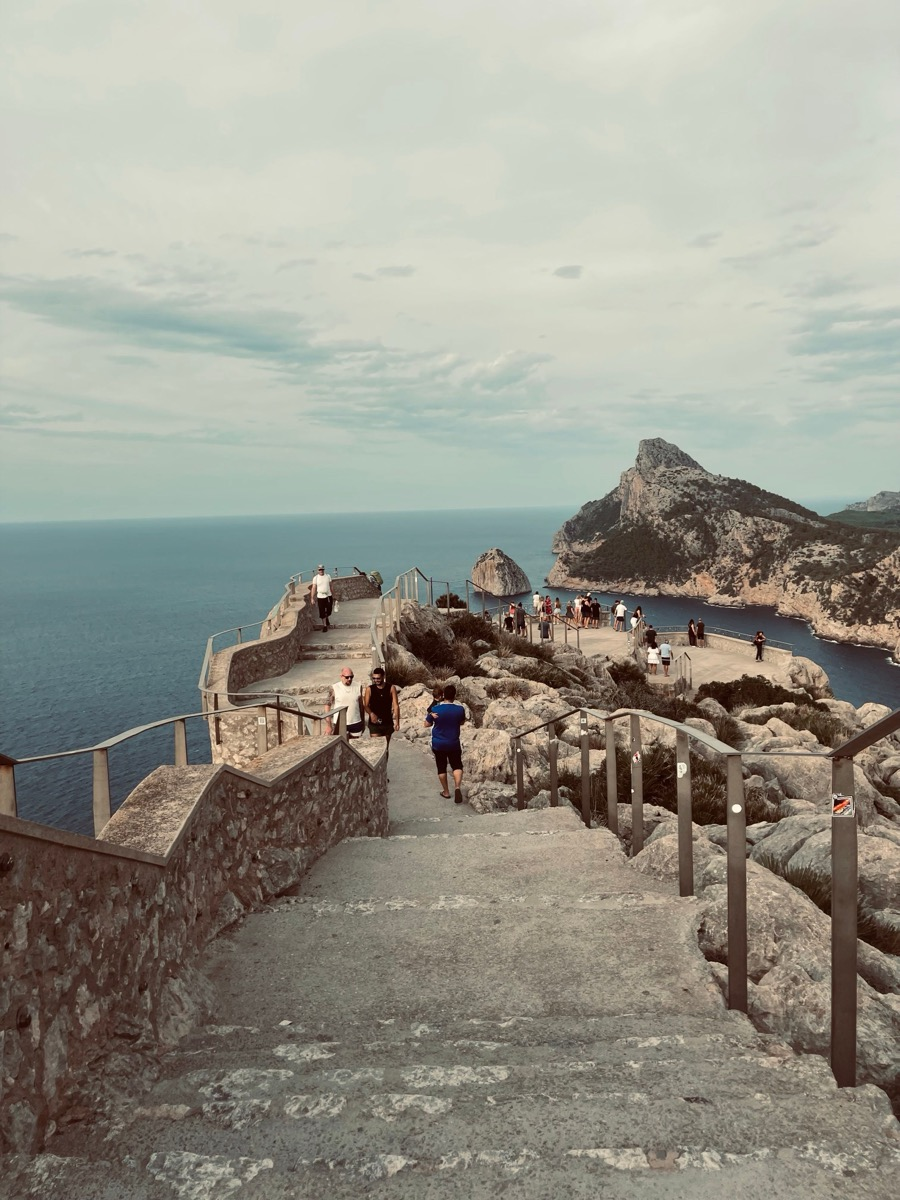
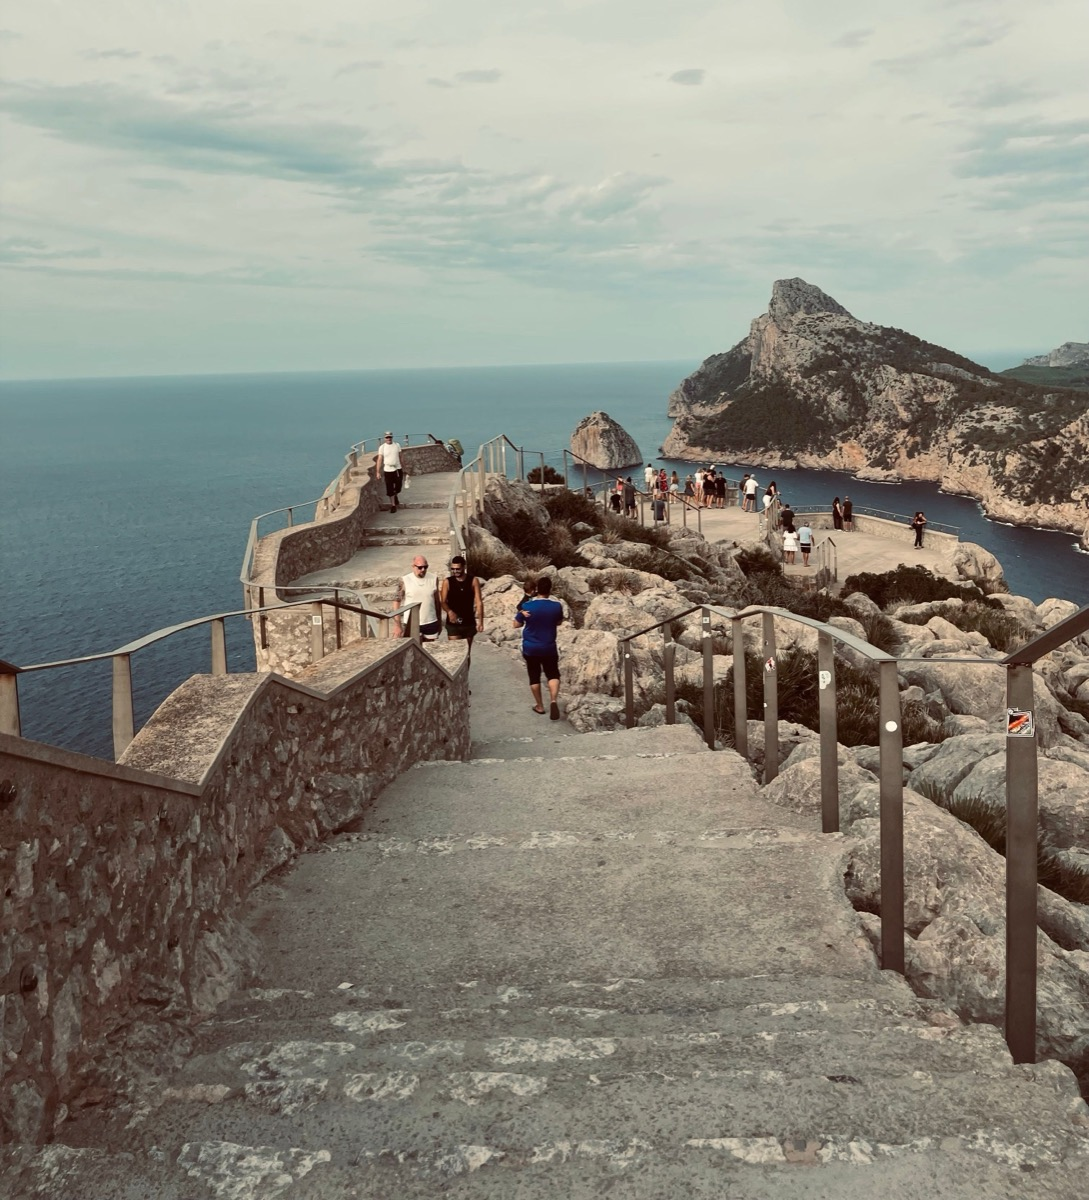
feat: replace copyright photos for 13 places + 2 itineraries with free sources (seed v112)
Places updated: seu-cathedral, bellver-castle, fundacio-miro, es-baluard,
coves-drach, monestir-lluc, jardins-alfabia, can-prunera-soller,
casal-solleric-palma, fundacio-juan-march-palma, museu-de-mallorca,
teatre-principal-palma, museu-art-sacre-palma.
Itineraries updated: itin-palma-culture (cover+3 gallery), itin-palma-soller
(cover+2 gallery). Also applies mirador-des-colomer hero crop fix.
Sources: AETIB, PIXABAY, PEXELS, UNSPLASH, MINE.

diff --git a/core/core-data/src/main/kotlin/com/mallorca/explorer/core/data/sync/SeedDataWorker.kt b/core/core-data/src/main/kotlin/com/mallorca/explorer/core/data/sync/SeedDataWorker.kt
@@ -94,7 +94,7 @@ class SeedDataWorker @AssistedInject constructor(
     }
 
     companion object {
-        const val CURRENT_SEED_VERSION = 111
+        const val CURRENT_SEED_VERSION = 112
 
         // Places removed from seed_data.json that must be deleted from the local DB.
         // Add new IDs here whenever a place is retired from the seed.
